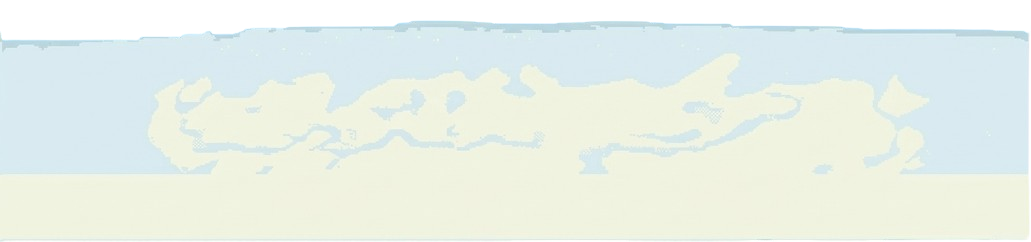
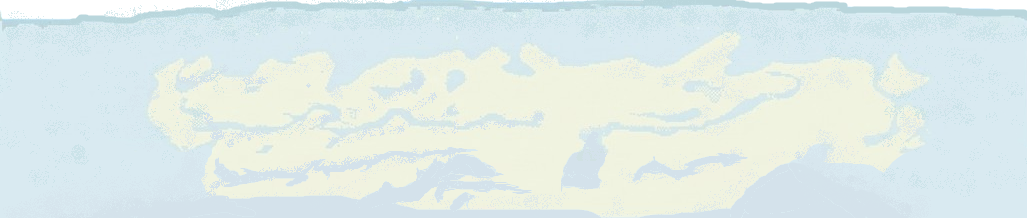
coisas que fiz em sala

diff --git a/index.js b/index.js
@@ -15,16 +15,16 @@ window.addEventListener('resize', () => {
 
     // atualizar tamanhos
     bg1.w = canvas.width
-    bg1.h = canvas.height * 0.4
-    bg1.y = 0
+    bg1.h = canvas.height * 0.6
+    bg1.y = canvas.height * 0.4
 
     bg2.w = canvas.width
-    bg2.h = canvas.height * 0.3
-    bg2.y = canvas.height * 0.1
+    bg2.h = canvas.height * 0.4
+    bg2.y = 0
 
     bg3.w = canvas.width
-    bg3.h = canvas.height * 0.6
-    bg3.y = canvas.height * 0.4
+    bg3.h = canvas.height * 0.3
+    bg3.y = canvas.height * 0.1
 
     bg1.reset()
     bg2.reset()
@@ -40,17 +40,17 @@ des.mozImageSmoothingEnabled = false;
 
 // OBJETOS ------------------------------------------
 
-let bg1 = new Background('./img/background2.png', 1, canvas.width, window.innerHeight * 0.4)
+let bg1 = new Background('./img/background1.png', 6, canvas.width, window.innerHeight * 0.6, canvas.height * 0.4)
 
-let bg2 = new Background('./img/background3.png', 3, canvas.width, window.innerHeight * 0.3, canvas.height * 0.1)
+let bg2 = new Background('./img/background2.png', 1, canvas.width, window.innerHeight * 0.4)
 
-let bg3 = new Background('./img/background1.png', 6, canvas.width, window.innerHeight * 0.6, canvas.height * 0.4)
+let bg3 = new Background('./img/background3.png', 3, canvas.width, window.innerHeight * 0.3, canvas.height * 0.1)
 
-let inimigo = new Inimigo((window.innerWidth + 300), bg3.y + 75, 96, 96, './img/bolacha_00.png')
-let inimigo2 = new Inimigo((window.innerWidth + 700), bg3.y + 175, 96, 96, '/img/bolacha_00.png')
-let inimigo3 = new Inimigo((window.innerWidth + 1400), bg3.y + 305, 96, 96, '/img/bolacha_00.png')
-let player = new Player(-200, bg3.y + 50, 128, 128, '../img/guto_01.png')
-let player2 = new Player(-200, bg3.y + 275, 128, 128, '../img/renato_00.png')
+let inimigo = new Inimigo((window.innerWidth + 300), bg1.y + 75, 96, 96, './img/bolacha_00.png')
+let inimigo2 = new Inimigo((window.innerWidth + 700), bg1.y + 175, 96, 96, './img/bolacha_00.png')
+let inimigo3 = new Inimigo((window.innerWidth + 1400), bg1.y + 305, 96, 96, './img/bolacha_00.png')
+let player = new Player(-200, bg1.y + 50, 128, 128, '../img/guto_01.png')
+let player2 = new Player(-200, bg1.y + 275, 128, 128, '../img/renato_00.png')
 
 player.hitbox = { x: 36, y: 44, w: 60, h: 48 }
 player2.hitbox = { x: 36, y: 44, w: 60, h: 48 }
@@ -60,22 +60,24 @@ inimigo3.hitbox = { x: 12, y: 18, w: 63, h: 57 }
 
 const fasesConfig = {
     1: {
-        bg1: './img/background2.png',
-        bg2: './img/background3.png',
-        bg3: './img/background1.png'
+        bg1: './img/background1.png',
+        bg2: './img/background2.png',
+        bg3: './img/background3.png',
+        bg2H: window.innerHeight * 0.4
     },
     2: {
-        bg1: './img/backgroundD2.png',
-        bg2: './img/backgroundD3.png',
-        bg3: './img/backgroundD1.png'
+        bg2: './img/backgroundD2.png',
+        bg3: './img/backgroundD3.png',
+        bg1: './img/backgroundD1.png',
+        bg2H: window.innerHeight * 0.4
     },
     3: {
-        bg1: './img/backgroundN2.png',
-        bg2: './img/backgroundN3.png',
-        bg3: './img/backgroundN1.png'
+        bg1: './img/backgroundN1.png',
+        bg2: './img/backgroundN2.png',
+        bg3: './img/backgroundN3.png',
+        bg2H: window.innerHeight * 0.6
     }
 }
-
 
 player.startX = 100
 player2.startX = 100
@@ -167,15 +169,19 @@ function animacaoTransicao() {
         }
     }
 
-    player.anim('guto_0', 6, 3)
-    player2.anim('renato_0', 1, 7)
+    if (player.vida > 0) {
+        player.anim('guto_0', 6, 3)
+    }
+    if (player2.vida > 0) {
+        player2.anim('renato_0', 1, 7)
+    }
 }
 
 function desenhaTransicao() {
     // fundo
+    bg2.draw()
     bg1.draw()
     bg3.draw()
-    bg2.draw()
 
     // largura de cada frame do spritesheet
     if (!fadeSprite.complete) return
@@ -289,8 +295,17 @@ function game_over() {
 }
 
 //CONTROLADOR DE FASES --------------------------------
+function trocar_Background() {
+    bg1.img.src = fasesConfig[fase].bg1
+    bg2.img.src = fasesConfig[fase].bg2
+    bg3.img.src = fasesConfig[fase].bg3
+    bg2.h = fasesConfig[fase].bg2H
+}
+
 function ver_fase() {
     if ((player.pontos + player2.pontos) > 200 && fase === 1) {
+        balas = [];
+
         fase = 2
 
         inimigos.forEach(inimigo => {
@@ -298,21 +313,22 @@ function ver_fase() {
         })
 
         iniciarTransicao()
-        bg1.img.src = fasesConfig[fase].bg1
-        bg2.img.src = fasesConfig[fase].bg2
-        bg3.img.src = fasesConfig[fase].bg3
+
+        trocar_Background()
 
     } else if ((player.pontos + player2.pontos) > 400 && fase === 2) {
-        fase = 3
+        balas = [];
 
+        fase = 3
+sssssssssssssssssz1
         inimigos.forEach(inimigo => {
             inimigo.vel = 13
         })
 
         iniciarTransicao()
-        bg1.img.src = fasesConfig[fase].bg1
-        bg2.img.src = fasesConfig[fase].bg2
-        bg3.img.src = fasesConfig[fase].bg3
+
+        trocar_Background()
+
     }
 }
 
@@ -392,9 +408,9 @@ function controlarAtaques() {
 //DESENHO DA TELA --------------------------------
 function desenha() {
     if (jogar) {
-        bg1.draw()
-        bg3.draw()
         bg2.draw()
+        bg3.draw()
+        bg1.draw()
 
         inimigos.forEach(inimigo => {
             inimigo.des_player()
@@ -423,13 +439,12 @@ function desenha() {
 //ATUALIZAÇÂO DO JOGO --------------------------------
 function atualiza() {
     if (estado === 'jogando') {
-
         bg1.mov()
         bg2.mov()
         bg3.mov()
 
-        let limiteCima = bg3.y
-        let limiteBaixo = bg3.y + bg3.h - player.h
+        let limiteCima = bg1.y
+        let limiteBaixo = bg1.y + bg1.h - player.h
         let limiteEsq = 0
         let limiteDir = canvas.width
 

diff --git a/models/player.js b/models/player.js
@@ -122,8 +122,8 @@ class Inimigo extends Obj {
 
     recomeca() {
         this.x = canvas.width + Math.random() * 300
-        let minY = bg3.y
-        let maxY = bg3.y + bg3.h - this.h
+        let minY = bg1.y
+        let maxY = bg1.y + bg1.h - this.h
 
         this.y = Math.random() * (maxY - minY) + minY
     }
